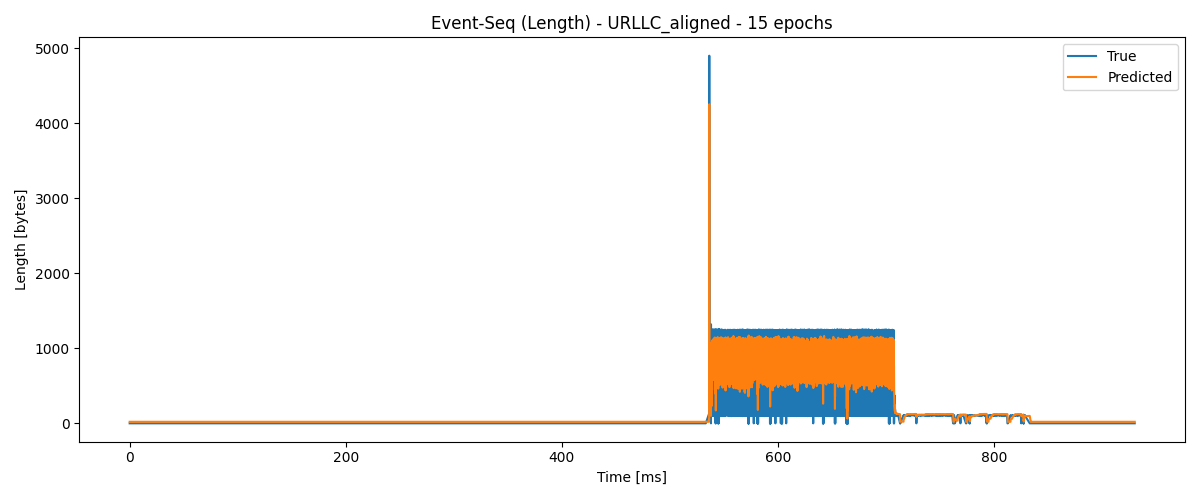
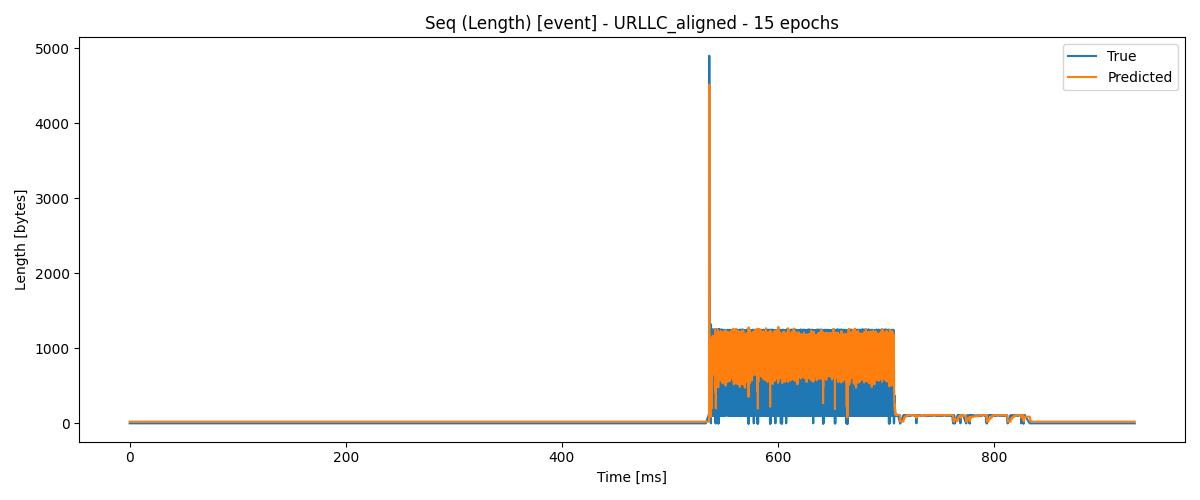
change code to include the uniform sampling as well. Also, change the place of some files

diff --git a/backend/notebooks/plot_and_predict_runner.py b/backend/notebooks/plot_and_predict_runner.py
@@ -1,6 +1,6 @@
 import argparse
 from pathlib import Path
-from typing import List, Sequence, Tuple
+from typing import Dict, List, Sequence, Tuple
 
 import matplotlib.pyplot as plt
 import numpy as np
@@ -9,6 +9,13 @@ import torch
 import torch.nn as nn
 from sklearn.preprocessing import MinMaxScaler
 from torch.utils.data import DataLoader, TensorDataset
+
+
+FEATURE_SETS: Dict[str, Dict[str, Sequence[str]]] = {
+    "length": {"columns": ("Length",), "mode": "event"},
+    "delta_t+length": {"columns": ("delta_t", "Length"), "mode": "event"},
+    "uniform-length": {"columns": ("Length",), "mode": "uniform"},
+}
 
 
 def create_event_sequences(
@@ -105,11 +112,12 @@ def build_scaled_sequences(
     """Scale selected columns and build padded sequences."""
 
     scaler = MinMaxScaler()
-    scaled = scaler.fit_transform(df[list(feature_cols)].values.astype(float))
+    values = df[list(feature_cols)].values.astype(np.float32)
+    scaled = scaler.fit_transform(values).astype(np.float32)
 
     target_idx = feature_cols.index("Length")
     X_np, y_np = create_event_sequences(scaled, window=window, target_idx=target_idx)
-    return X_np, y_np, scaler
+    return X_np.astype(np.float32), y_np.astype(np.float32), scaler
 
 
 def inverse_length_transform(
@@ -123,8 +131,30 @@ def inverse_length_transform(
     return scaled_values * data_range + data_min
 
 
-def run_regular(
+def predict_in_batches(
+    model: nn.Module,
+    loader: DataLoader,
+    device: torch.device,
+) -> Tuple[np.ndarray, np.ndarray]:
+    preds: List[torch.Tensor] = []
+    targets: List[torch.Tensor] = []
+    model.eval()
+    with torch.no_grad():
+        for xb, yb in loader:
+            xb = xb.to(device)
+            preds.append(model(xb).cpu())
+            targets.append(yb.cpu())
+    pred_cat = torch.cat(preds, dim=0)
+    target_cat = torch.cat(targets, dim=0)
+    return pred_cat.numpy().squeeze(-1), target_cat.numpy().squeeze(-1)
+
+
+def train_feature_set(
+    df_event: pd.DataFrame,
     trace_path: Path,
+    feature_cols: Sequence[str],
+    feature_tag: str,
+    mode: str,
     window: int,
     epochs: int,
     batch_size: int,
@@ -132,43 +162,83 @@ def run_regular(
     hidden_dim: int,
     num_layers: int,
     output_dir: Path,
-    feature_cols: Sequence[str],
 ) -> None:
-    df = pd.read_csv(trace_path)
-    df = df.sort_values("Time").reset_index(drop=True)
-    df["delta_t"] = df["Time"].diff().fillna(0.0)
+    if "Length" not in feature_cols:
+        raise ValueError("Feature set must include 'Length'.")
 
-    X_np, y_np, scaler = build_scaled_sequences(df, feature_cols=feature_cols, window=window)
+    if mode == "uniform":
+        df_prepared = build_uniform_dataframe(df_event)
+    else:
+        df_prepared = df_event
+
+    X_np, y_np, scaler = build_scaled_sequences(df_prepared, feature_cols=feature_cols, window=window)
 
     X_tensor = torch.tensor(X_np, dtype=torch.float32)
     y_tensor = torch.tensor(y_np, dtype=torch.float32).unsqueeze(-1)
 
-    loader = DataLoader(TensorDataset(X_tensor, y_tensor), batch_size=batch_size, shuffle=True)
+    dataset = TensorDataset(X_tensor, y_tensor)
+    train_loader = DataLoader(dataset, batch_size=batch_size, shuffle=True)
+    eval_loader = DataLoader(dataset, batch_size=batch_size, shuffle=False)
 
     model = LSTMModel(input_dim=len(feature_cols), hidden_dim=hidden_dim, num_layers=num_layers)
-    train_model(model, loader, epochs=epochs, device=device)
+    train_model(model, train_loader, epochs=epochs, device=device)
 
-    model.eval()
-    with torch.no_grad():
-        preds = model(X_tensor.to(device)).cpu().numpy()
-    y_true = y_tensor.numpy()
+    preds, y_true = predict_in_batches(model, eval_loader, device=device)
 
-    preds = inverse_length_transform(preds.squeeze(), scaler, feature_cols)
-    y_true = inverse_length_transform(y_true.squeeze(), scaler, feature_cols)
+    preds = inverse_length_transform(preds, scaler, feature_cols)
+    y_true = inverse_length_transform(y_true, scaler, feature_cols)
 
-    time_axis = df["Time"].values.astype(float)
-    feature_tag = "_".join(feature_cols).lower()
-    title = f"Event-Seq ({' + '.join(feature_cols)}) - {trace_path.stem} - {epochs} epochs"
+    time_axis = df_prepared["Time"].values.astype(float)
+    title = f"Seq ({' + '.join(feature_cols)}) [{mode}] - {trace_path.stem} - {epochs} epochs"
     output_path = output_dir / f"{trace_path.stem}_epochs{epochs}_{feature_tag}.png"
     plot_predictions(time_axis, y_true, preds, title, output_path, is_irregular="delta_t" in feature_cols)
 
 
-def run_irregular(
-    *args,
-    **kwargs,
-) -> None:
-    # Backward compatibility shim – calls run_regular with delta_t included
-    return run_regular(*args, feature_cols=("delta_t", "Length"), **kwargs)
+def load_trace(trace_path: Path) -> pd.DataFrame:
+    df = pd.read_csv(trace_path)
+    df = df.sort_values("Time").reset_index(drop=True)
+    if "delta_t" not in df.columns:
+        df["delta_t"] = df["Time"].diff().fillna(0.0)
+    return df
+
+
+def build_uniform_dataframe(df: pd.DataFrame) -> pd.DataFrame:
+    """Expand the event stream onto a uniform grid based on the smallest Δt."""
+
+    if df.empty:
+        return df.copy()
+
+    time_vals = df["Time"].astype(float).to_numpy()
+    deltas = np.diff(time_vals)
+    positive_deltas = deltas[deltas > 0]
+    if positive_deltas.size == 0:
+        min_gap = 1.0
+    else:
+        min_gap = positive_deltas.min()
+
+    if min_gap <= 0:
+        min_gap = 1.0
+
+    start = float(time_vals[0])
+    stop = float(time_vals[-1])
+    steps = int(np.floor((stop - start) / min_gap)) + 1
+
+    if steps > 2_000_000:
+        raise RuntimeError(
+            f"Uniform resampling would create {steps} steps; increase window or filter trace first."
+        )
+
+    grid = start + np.arange(steps) * min_gap
+    length_series = np.zeros_like(grid)
+
+    for t, length in zip(time_vals, df["Length"].to_numpy(dtype=float)):
+        idx = int(round((t - start) / min_gap))
+        if 0 <= idx < steps:
+            length_series[idx] += length
+
+    uniform_df = pd.DataFrame({"Time": grid, "Length": length_series})
+    uniform_df["delta_t"] = min_gap
+    return uniform_df
 
 
 def parse_args() -> argparse.Namespace:
@@ -192,6 +262,13 @@ def parse_args() -> argparse.Namespace:
         default=Path("plots"),
         help="Directory to store generated plots.",
     )
+    parser.add_argument(
+        "--feature-sets",
+        nargs="+",
+        default=["length", "delta_t+length"],
+        choices=sorted(FEATURE_SETS.keys()),
+        help="One or more feature sets to train (default: length and delta_t+length).",
+    )
     return parser.parse_args()
 
 
@@ -211,28 +288,27 @@ def main() -> None:
     output_dir = args.output_dir
     output_dir.mkdir(parents=True, exist_ok=True)
 
-    run_regular(
-        trace_path=args.trace,
-        window=args.window,
-        epochs=args.epochs,
-        batch_size=args.batch_size,
-        device=device,
-        hidden_dim=args.hidden_dim,
-        num_layers=args.num_layers,
-        output_dir=output_dir,
-        feature_cols=("Length",),
-    )
+    df_event = load_trace(args.trace)
 
-    run_irregular(
-        trace_path=args.trace,
-        window=args.window,
-        epochs=args.epochs,
-        batch_size=args.batch_size,
-        device=device,
-        hidden_dim=args.hidden_dim,
-        num_layers=args.num_layers,
-        output_dir=output_dir,
-    )
+    for feature_name in args.feature_sets:
+        config = FEATURE_SETS[feature_name]
+        cols = config["columns"]
+        mode = config.get("mode", "event")
+        print(f"Training feature set '{feature_name}' ({mode}) -> {cols}")
+        train_feature_set(
+            df_event=df_event,
+            trace_path=args.trace,
+            feature_cols=cols,
+            feature_tag=feature_name.replace("+", "_").replace(" ", ""),
+            mode=mode,
+            window=args.window,
+            epochs=args.epochs,
+            batch_size=args.batch_size,
+            device=device,
+            hidden_dim=args.hidden_dim,
+            num_layers=args.num_layers,
+            output_dir=output_dir,
+        )
 
 
 if __name__ == "__main__":

diff --git a/backend/README.md b/backend/README.md
@@ -353,7 +353,7 @@ Tips and knobs:
 
 ## 📉 LSTM Forecast Plots (Event Histories)
 
-Use `backend/notebooks/plot_and_predict_runner.py` to train PyTorch LSTM forecasters directly on packet event histories—no resampling. The script now builds padded windows of the last *N* packets, with optional Δt features, and saves comparison plots for “Length-only” vs “Δt+Length” inputs.
+Use `backend/notebooks/plot_and_predict_runner.py` to train PyTorch LSTM forecasters directly on packet event histories—no resampling. Each sample contains the last *N* packets (zero-padded when the history is shorter) so no arrivals are lost. You can choose which per-packet features to expose (e.g., `Length` only, or `Δt + Length`) or even force a uniform time grid (auto-detected minimum gap) via `--feature-sets`.
 
 - Basic run (auto-selects CUDA if available):
 
@@ -366,9 +366,14 @@ Use `backend/notebooks/plot_and_predict_runner.py` to train PyTorch LSTM forecas
 
   ```bash
   python backend/notebooks/plot_and_predict_runner.py backend/assets/traces/eMBB_aligned.csv \
-    --epochs 20 --window 30 --batch-size 16 --hidden-dim 128 --device cpu
+    --epochs 20 --window 30 --batch-size 16 --hidden-dim 128 --feature-sets length --device cpu
   ```
-
+- If we want to use all three methods:
+  ```bash
+    python backend/notebooks/plot_and_predict_runner.py backend/assets/traces/URLLC_aligned.csv \
+  --epochs 15 --window 20 --output-dir backend/assets/plots \
+  --feature-sets length delta_t+length uniform-length
+  ```
 - Multiple traces: run once per file to populate a common folder; each call writes `traceName_epochsX_regular.png` and `traceName_epochsX_irregular.png` with axes labelled in milliseconds and bytes:
 
   ```bash
@@ -379,9 +384,15 @@ Use `backend/notebooks/plot_and_predict_runner.py` to train PyTorch LSTM forecas
 
 Options:
 - `--window` controls how many past packets feed the model (default 20).
+- `--feature-sets` accepts one or more of `{length, delta_t+length, uniform-length}`.
+  - `length`: raw event history, `Length` feature only (sequence padding handles gaps).
+  - `delta_t+length`: raw event history with an extra `Δt` channel so the model learns inter-arrival spacing explicitly.
+  - `uniform-length`: detects the smallest positive `Δt`, expands the trace onto that uniform grid with zero-filled missing slots, then trains on `Length` alone (useful if you want explicitly time-aligned samples).
 - `--num-layers` to deepen the LSTM.
-- `--device auto|cpu|cuda` to override accelerator selection.
+- `--device auto|cpu|cuda` to override accelerator selection (use `cpu` if GPU memory is tight).
 - `--output-dir` defaults to `plots/` in the repo root if not provided.
+
+These same padded histories drive the optional LSTM-enabled PRB allocator: set `DQN_PRB_SEQ_LEN` (>1) in `settings` to let the RL agent observe the last *N* decision states. Reduce the value or run on CPU if sequence processing becomes too heavy.
 
 
 ## 📊 Live KPI Dashboard xApp
